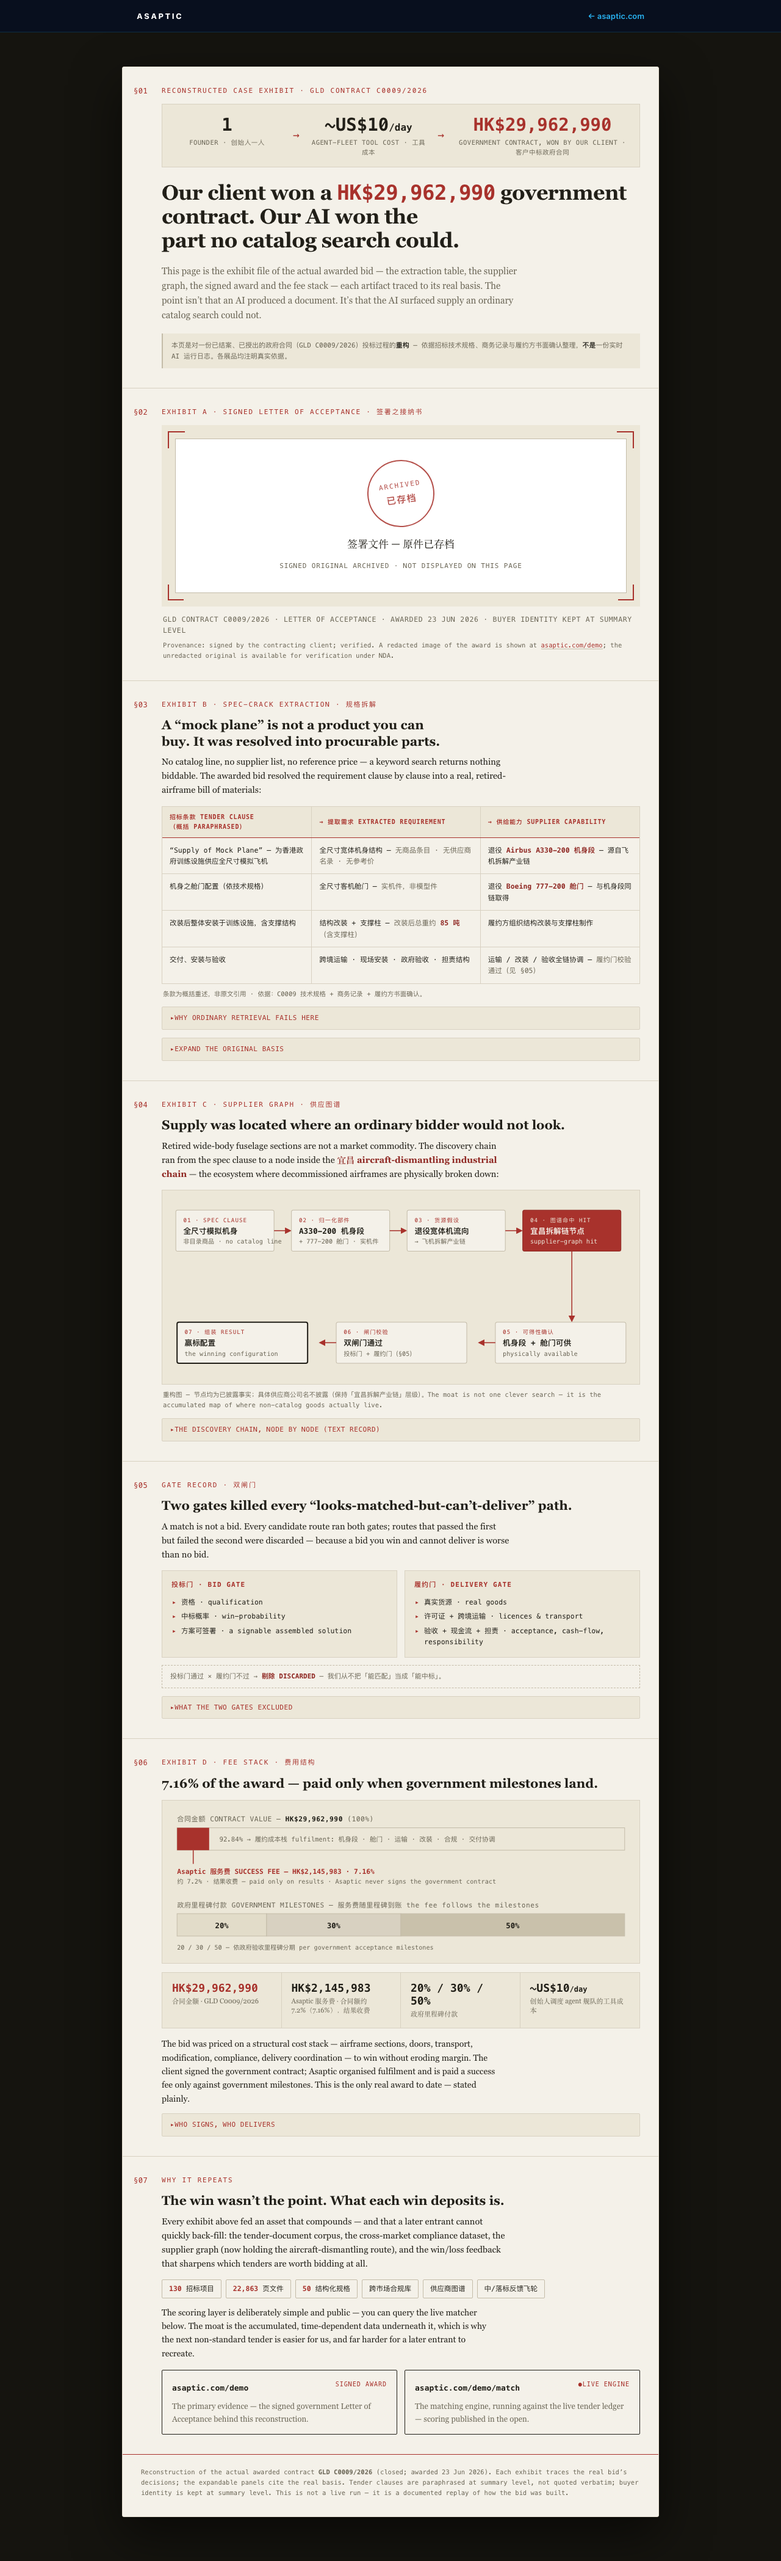
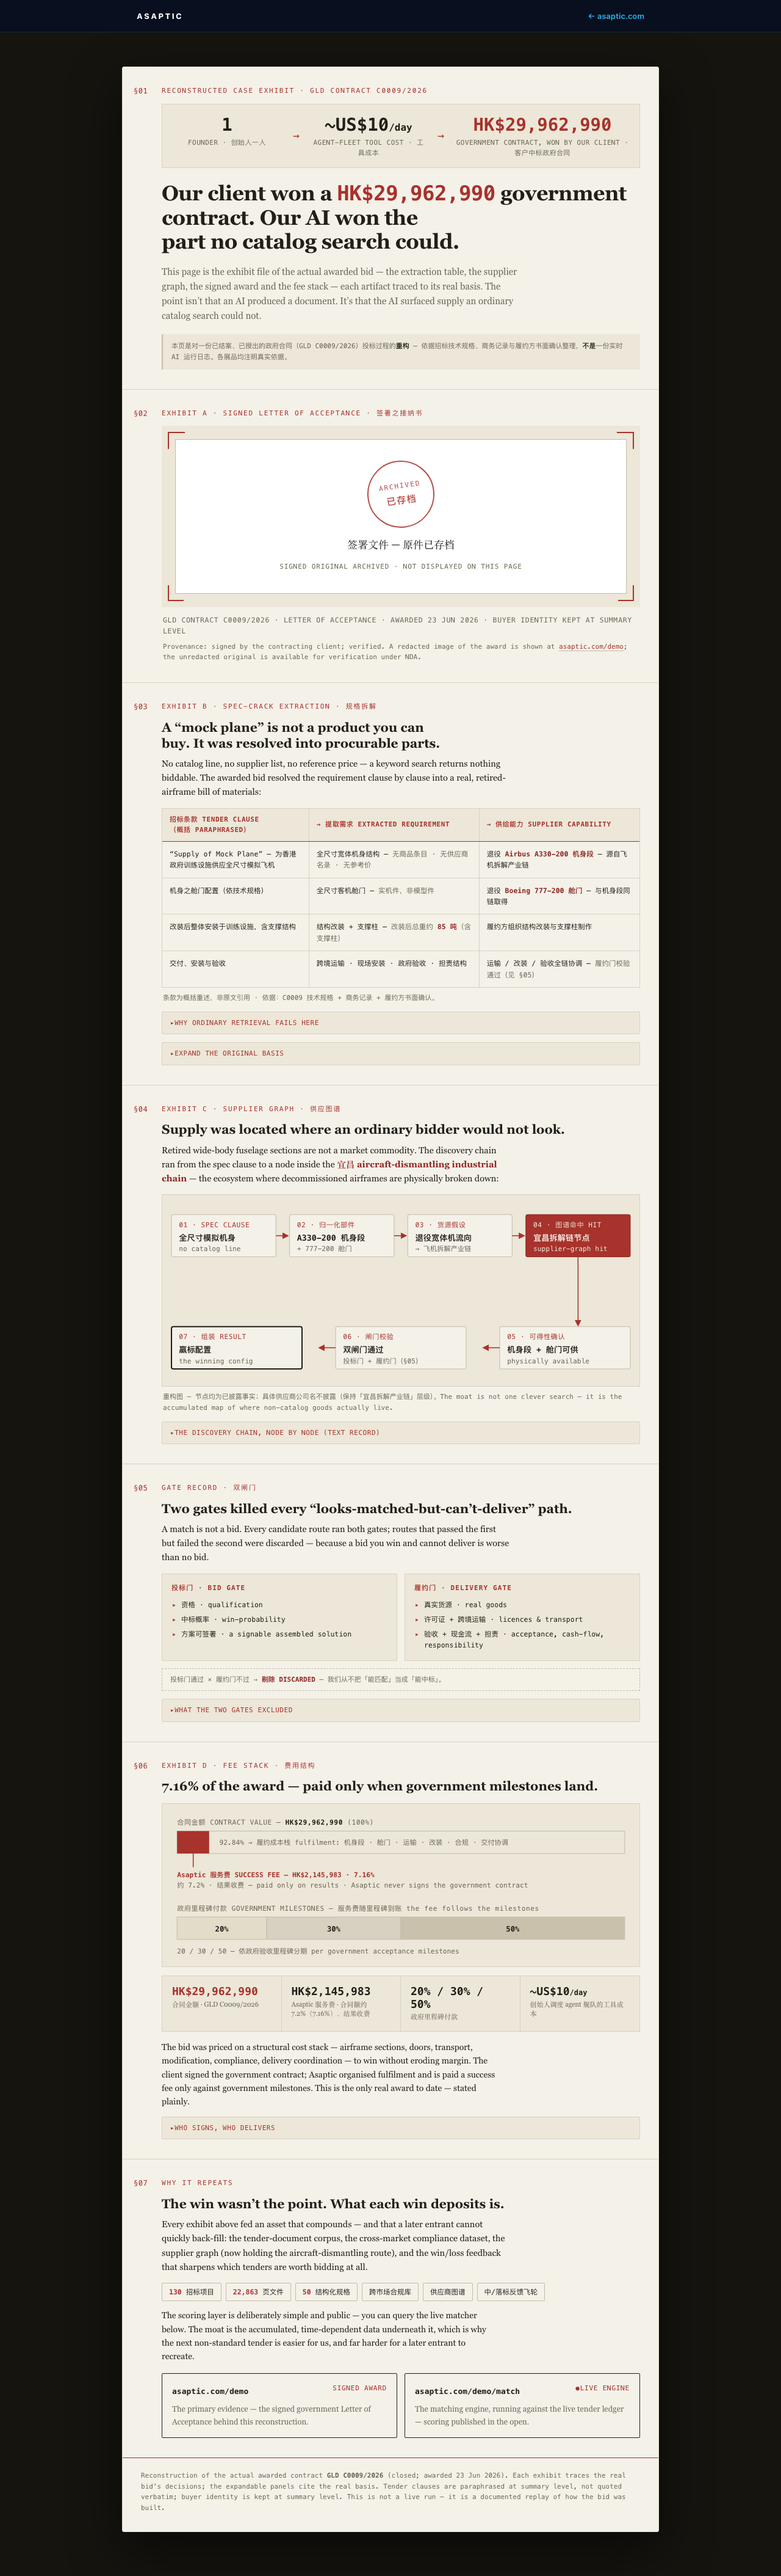
demos: UI-gate typography fix — min 11px computed font everywhere (CSS micro-labels + both SVGs), gate Overall: PASS

diff --git a/demos/index.html b/demos/index.html
@@ -53,7 +53,7 @@
   .tcell .tn{font-family:var(--mono);font-weight:700;font-size:clamp(20px,3.2vw,29px);line-height:1.1;color:var(--ink);font-variant-numeric:tabular-nums;white-space:nowrap}
   .tcell .tn.hl{color:var(--seal)}
   .tcell .tn small{font-size:.55em;font-weight:700}
-  .tcell .tk{font-family:var(--mono);font-size:10.5px;letter-spacing:.05em;text-transform:uppercase;color:var(--ink-2);margin-top:6px;line-height:1.5}
+  .tcell .tk{font-family:var(--mono);font-size:11px;letter-spacing:.04em;text-transform:uppercase;color:var(--ink-2);margin-top:6px;line-height:1.5}
   .tarrow{display:flex;align-items:center;font-family:var(--mono);font-size:18px;color:var(--seal);padding:0 2px}
   @media(max-width:640px){
     .tript{grid-template-columns:1fr}
@@ -77,13 +77,13 @@
   .slot .t1{font-family:var(--serif);font-size:17px;color:var(--ink);margin:0}
   .slot .t2{font-family:var(--mono);font-size:11px;letter-spacing:.08em;text-transform:uppercase;color:var(--ink-2);margin:0}
   .cap{font-family:var(--mono);font-size:11.5px;letter-spacing:.06em;color:var(--ink-2);margin:12px 2px 0;text-transform:uppercase}
-  .provline{font-family:var(--mono);font-size:10.5px;color:var(--ink-2);line-height:1.6;margin:7px 2px 0}
+  .provline{font-family:var(--mono);font-size:11px;color:var(--ink-2);line-height:1.6;margin:7px 2px 0}
   .provline a{color:var(--seal);text-decoration:none;border-bottom:1px solid var(--line-2)}
 
   /* extraction table */
   .xt{overflow-x:auto;margin:14px 0 0;border:1px solid var(--line);background:var(--paper)}
   .xt table{border-collapse:collapse;width:100%;min-width:620px}
-  .xt th{font-family:var(--mono);font-size:10px;letter-spacing:.08em;text-transform:uppercase;color:var(--seal);
+  .xt th{font-family:var(--mono);font-size:11px;letter-spacing:.05em;text-transform:uppercase;color:var(--seal);
     text-align:left;padding:9px 12px;background:var(--paper-2);border-bottom:1px solid var(--seal);font-weight:700;white-space:nowrap}
   .xt th .arr{color:var(--seal)}
   .xt td{font-family:var(--mono);font-size:11.5px;color:var(--ink);line-height:1.6;padding:11px 12px;border-bottom:1px solid var(--line);vertical-align:top}
@@ -91,13 +91,13 @@
   .xt tr:last-child td{border-bottom:0}
   .xt td b{color:var(--seal-deep)}
   .xt td .dim{color:var(--ink-2)}
-  .tfoot{font-family:var(--mono);font-size:10.5px;color:var(--ink-2);line-height:1.6;margin:8px 2px 0}
+  .tfoot{font-family:var(--mono);font-size:11px;color:var(--ink-2);line-height:1.6;margin:8px 2px 0}
 
   /* figures (SVG diagrams) */
   .fig{overflow-x:auto;margin:14px 0 0;border:1px solid var(--line);background:var(--paper-2);padding:16px 14px 10px}
   .fig svg{display:block;min-width:640px;width:100%;height:auto}
   .fig svg text{font-family:var(--mono)}
-  .figcap{font-family:var(--mono);font-size:10.5px;color:var(--ink-2);line-height:1.6;margin:8px 2px 0}
+  .figcap{font-family:var(--mono);font-size:11px;color:var(--ink-2);line-height:1.6;margin:8px 2px 0}
 
   /* gate cards */
   .gates{display:grid;grid-template-columns:1fr 1fr;gap:12px;margin:14px 0 0}
@@ -140,7 +140,7 @@
   .chip b{color:var(--seal)}
   .cards{display:grid;grid-template-columns:1fr 1fr;gap:12px;margin:16px 0 0}
   .card{display:block;text-decoration:none;color:inherit;border:1.5px solid var(--ink);border-radius:2px;padding:15px 16px 14px;position:relative;transition:border-color .15s,border-width .15s}
-  .card .tag{font-family:var(--mono);font-size:10px;letter-spacing:.1em;color:var(--seal);float:right;text-transform:uppercase}
+  .card .tag{font-family:var(--mono);font-size:11px;letter-spacing:.07em;color:var(--seal);float:right;text-transform:uppercase}
   .card .tag.live::before{content:"\25CF "}
   .card .addr{font-family:var(--mono);font-size:13px;font-weight:700}
   .card p{font-size:13px;color:var(--ink-2);margin:8px 0 0}
@@ -149,7 +149,7 @@
   @media(max-width:640px){.cards{grid-template-columns:1fr}}
 
   footer{padding:20px 30px 30px;border-top:1px solid var(--seal)}
-  .note{font-family:var(--mono);font-size:10.5px;color:var(--ink-2);line-height:1.6;margin:0}
+  .note{font-family:var(--mono);font-size:11px;color:var(--ink-2);line-height:1.6;margin:0}
 
   @media(max-width:640px){
     .body{padding-right:20px}
@@ -267,7 +267,7 @@
       <h2>Supply was located where an ordinary bidder would not look.</h2>
       <p class="copy">Retired wide-body fuselage sections are not a market commodity. The discovery chain ran from the spec clause to a node inside the <span class="em">宜昌 aircraft-dismantling industrial chain</span> &mdash; the ecosystem where decommissioned airframes are physically broken down:</p>
       <div class="fig" role="img" aria-label="Supplier discovery graph, seven nodes: spec clause, normalized parts, supply hypothesis, graph hit at the Yichang dismantling chain, availability confirmed, two gates passed, winning configuration assembled">
-        <svg viewBox="0 0 740 286" xmlns="http://www.w3.org/2000/svg" aria-hidden="true">
+        <svg viewBox="0 0 740 282" xmlns="http://www.w3.org/2000/svg" aria-hidden="true">
           <defs>
             <marker id="ah" viewBox="0 0 10 10" refX="8" refY="5" markerWidth="7" markerHeight="7" orient="auto-start-reverse">
               <path d="M0 0L10 5L0 10z" fill="#a8322c"/>
@@ -275,54 +275,54 @@
           </defs>
           <!-- row 1 -->
           <g>
-            <rect x="8" y="16" width="158" height="66" rx="3" fill="#f4f1e9" stroke="#c4bca9"/>
-            <text x="20" y="35" font-size="9" letter-spacing="1" fill="#a8322c">01 &middot; SPEC CLAUSE</text>
-            <text x="20" y="54" font-size="12.5" font-weight="700" fill="#211f18">全尺寸模拟机身</text>
-            <text x="20" y="70" font-size="10" fill="#6b6656">非目录商品 &middot; no catalog line</text>
+            <rect x="1" y="16" width="168" height="68" rx="3" fill="#f4f1e9" stroke="#c4bca9"/>
+            <text x="13" y="36" font-size="11" letter-spacing=".5" fill="#a8322c">01 &middot; SPEC CLAUSE</text>
+            <text x="13" y="58" font-size="13" font-weight="700" fill="#211f18">全尺寸模拟机身</text>
+            <text x="13" y="75" font-size="11" fill="#6b6656">no catalog line</text>
           </g>
-          <line x1="166" y1="49" x2="192" y2="49" stroke="#a8322c" stroke-width="1.5" marker-end="url(#ah)"/>
+          <line x1="169" y1="50" x2="188" y2="50" stroke="#a8322c" stroke-width="1.5" marker-end="url(#ah)"/>
           <g>
-            <rect x="194" y="16" width="158" height="66" rx="3" fill="#f4f1e9" stroke="#c4bca9"/>
-            <text x="206" y="35" font-size="9" letter-spacing="1" fill="#a8322c">02 &middot; 归一化部件</text>
-            <text x="206" y="54" font-size="12.5" font-weight="700" fill="#211f18">A330-200 机身段</text>
-            <text x="206" y="70" font-size="10" fill="#6b6656">+ 777-200 舱门 &middot; 实机件</text>
+            <rect x="191" y="16" width="168" height="68" rx="3" fill="#f4f1e9" stroke="#c4bca9"/>
+            <text x="203" y="36" font-size="11" letter-spacing=".5" fill="#a8322c">02 &middot; 归一化部件</text>
+            <text x="203" y="58" font-size="13" font-weight="700" fill="#211f18">A330-200 机身段</text>
+            <text x="203" y="75" font-size="11" fill="#6b6656">+ 777-200 舱门</text>
           </g>
-          <line x1="352" y1="49" x2="378" y2="49" stroke="#a8322c" stroke-width="1.5" marker-end="url(#ah)"/>
+          <line x1="359" y1="50" x2="378" y2="50" stroke="#a8322c" stroke-width="1.5" marker-end="url(#ah)"/>
           <g>
-            <rect x="380" y="16" width="158" height="66" rx="3" fill="#f4f1e9" stroke="#c4bca9"/>
-            <text x="392" y="35" font-size="9" letter-spacing="1" fill="#a8322c">03 &middot; 货源假设</text>
-            <text x="392" y="54" font-size="12.5" font-weight="700" fill="#211f18">退役宽体机流向</text>
-            <text x="392" y="70" font-size="10" fill="#6b6656">&rarr; 飞机拆解产业链</text>
+            <rect x="381" y="16" width="168" height="68" rx="3" fill="#f4f1e9" stroke="#c4bca9"/>
+            <text x="393" y="36" font-size="11" letter-spacing=".5" fill="#a8322c">03 &middot; 货源假设</text>
+            <text x="393" y="58" font-size="13" font-weight="700" fill="#211f18">退役宽体机流向</text>
+            <text x="393" y="75" font-size="11" fill="#6b6656">&rarr; 飞机拆解产业链</text>
           </g>
-          <line x1="538" y1="49" x2="564" y2="49" stroke="#a8322c" stroke-width="1.5" marker-end="url(#ah)"/>
+          <line x1="549" y1="50" x2="568" y2="50" stroke="#a8322c" stroke-width="1.5" marker-end="url(#ah)"/>
           <g>
-            <rect x="566" y="16" width="158" height="66" rx="3" fill="#a8322c" stroke="#8f2823"/>
-            <text x="578" y="35" font-size="9" letter-spacing="1" fill="#ece7d8">04 &middot; 图谱命中 HIT</text>
-            <text x="578" y="54" font-size="12.5" font-weight="700" fill="#f4f1e9">宜昌拆解链节点</text>
-            <text x="578" y="70" font-size="10" fill="#ece7d8">supplier-graph hit</text>
+            <rect x="571" y="16" width="168" height="68" rx="3" fill="#a8322c" stroke="#8f2823"/>
+            <text x="583" y="36" font-size="11" letter-spacing=".5" fill="#ece7d8">04 &middot; 图谱命中 HIT</text>
+            <text x="583" y="58" font-size="13" font-weight="700" fill="#f4f1e9">宜昌拆解链节点</text>
+            <text x="583" y="75" font-size="11" fill="#ece7d8">supplier-graph hit</text>
           </g>
           <!-- elbow down -->
-          <line x1="645" y1="82" x2="645" y2="194" stroke="#a8322c" stroke-width="1.5" marker-end="url(#ah)"/>
+          <line x1="655" y1="84" x2="655" y2="194" stroke="#a8322c" stroke-width="1.5" marker-end="url(#ah)"/>
           <!-- row 2 (right to left) -->
           <g>
-            <rect x="522" y="196" width="210" height="66" rx="3" fill="#f4f1e9" stroke="#c4bca9"/>
-            <text x="534" y="215" font-size="9" letter-spacing="1" fill="#a8322c">05 &middot; 可得性确认</text>
-            <text x="534" y="234" font-size="12.5" font-weight="700" fill="#211f18">机身段 + 舱门可供</text>
-            <text x="534" y="250" font-size="10" fill="#6b6656">physically available</text>
+            <rect x="529" y="196" width="210" height="68" rx="3" fill="#f4f1e9" stroke="#c4bca9"/>
+            <text x="541" y="216" font-size="11" letter-spacing=".5" fill="#a8322c">05 &middot; 可得性确认</text>
+            <text x="541" y="238" font-size="13" font-weight="700" fill="#211f18">机身段 + 舱门可供</text>
+            <text x="541" y="255" font-size="11" fill="#6b6656">physically available</text>
           </g>
-          <line x1="522" y1="229" x2="496" y2="229" stroke="#a8322c" stroke-width="1.5" marker-end="url(#ah)"/>
+          <line x1="529" y1="230" x2="503" y2="230" stroke="#a8322c" stroke-width="1.5" marker-end="url(#ah)"/>
           <g>
-            <rect x="266" y="196" width="210" height="66" rx="3" fill="#f4f1e9" stroke="#c4bca9"/>
-            <text x="278" y="215" font-size="9" letter-spacing="1" fill="#a8322c">06 &middot; 闸门校验</text>
-            <text x="278" y="234" font-size="12.5" font-weight="700" fill="#211f18">双闸门通过</text>
-            <text x="278" y="250" font-size="10" fill="#6b6656">投标门 + 履约门（&sect;05）</text>
+            <rect x="265" y="196" width="210" height="68" rx="3" fill="#f4f1e9" stroke="#c4bca9"/>
+            <text x="277" y="216" font-size="11" letter-spacing=".5" fill="#a8322c">06 &middot; 闸门校验</text>
+            <text x="277" y="238" font-size="13" font-weight="700" fill="#211f18">双闸门通过</text>
+            <text x="277" y="255" font-size="11" fill="#6b6656">投标门 + 履约门（&sect;05）</text>
           </g>
-          <line x1="266" y1="229" x2="240" y2="229" stroke="#a8322c" stroke-width="1.5" marker-end="url(#ah)"/>
+          <line x1="265" y1="230" x2="239" y2="230" stroke="#a8322c" stroke-width="1.5" marker-end="url(#ah)"/>
           <g>
-            <rect x="10" y="196" width="210" height="66" rx="3" fill="#f4f1e9" stroke="#211f18" stroke-width="2"/>
-            <text x="22" y="215" font-size="9" letter-spacing="1" fill="#a8322c">07 &middot; 组装 RESULT</text>
-            <text x="22" y="234" font-size="12.5" font-weight="700" fill="#211f18">赢标配置</text>
-            <text x="22" y="250" font-size="10" fill="#6b6656">the winning configuration</text>
+            <rect x="1" y="196" width="210" height="68" rx="3" fill="#f4f1e9" stroke="#211f18" stroke-width="2"/>
+            <text x="13" y="216" font-size="11" letter-spacing=".5" fill="#a8322c">07 &middot; 组装 RESULT</text>
+            <text x="13" y="238" font-size="13" font-weight="700" fill="#211f18">赢标配置</text>
+            <text x="13" y="255" font-size="11" fill="#6b6656">the winning config</text>
           </g>
         </svg>
       </div>
@@ -391,10 +391,10 @@
           <text x="10" y="18" font-size="11" fill="#6b6656" letter-spacing=".5">合同金额 CONTRACT VALUE &mdash; <tspan font-weight="700" fill="#211f18">HK$29,962,990</tspan> (100%)</text>
           <rect x="10" y="28" width="720" height="36" fill="#ece7d8" stroke="#c4bca9"/>
           <rect x="10" y="28" width="51.6" height="36" fill="#a8322c"/>
-          <text x="78" y="50" font-size="10.5" fill="#6b6656">92.84% &rarr; 履约成本栈 fulfilment: 机身段 &middot; 舱门 &middot; 运输 &middot; 改装 &middot; 合规 &middot; 交付协调</text>
+          <text x="78" y="50" font-size="11" fill="#6b6656">92.84% &rarr; 履约成本栈 fulfilment: 机身段 &middot; 舱门 &middot; 运输 &middot; 改装 &middot; 合规 &middot; 交付协调</text>
           <line x1="36" y1="64" x2="36" y2="86" stroke="#a8322c" stroke-width="1.5"/>
           <text x="10" y="102" font-size="11" font-weight="700" fill="#a8322c">Asaptic 服务费 SUCCESS FEE &mdash; HK$2,145,983 &middot; 7.16%</text>
-          <text x="10" y="118" font-size="10" fill="#6b6656">约 7.2% &middot; 结果收费 &mdash; paid only on results &middot; Asaptic never signs the government contract</text>
+          <text x="10" y="119" font-size="11" fill="#6b6656">约 7.2% &middot; 结果收费 &mdash; paid only on results &middot; Asaptic never signs the government contract</text>
           <!-- bar 2: milestones -->
           <text x="10" y="156" font-size="11" fill="#6b6656" letter-spacing=".5">政府里程碑付款 GOVERNMENT MILESTONES &mdash; 服务费随里程碑到账 the fee follows the milestones</text>
           <rect x="10" y="166" width="144" height="36" fill="#e2dcc9" stroke="#c4bca9"/>
@@ -403,7 +403,7 @@
           <text x="82" y="189" font-size="12" font-weight="700" fill="#211f18" text-anchor="middle">20%</text>
           <text x="262" y="189" font-size="12" font-weight="700" fill="#211f18" text-anchor="middle">30%</text>
           <text x="550" y="189" font-size="12" font-weight="700" fill="#211f18" text-anchor="middle">50%</text>
-          <text x="10" y="224" font-size="10" fill="#6b6656">20 / 30 / 50 &mdash; 依政府验收里程碑分期 per government acceptance milestones</text>
+          <text x="10" y="225" font-size="11" fill="#6b6656">20 / 30 / 50 &mdash; 依政府验收里程碑分期 per government acceptance milestones</text>
         </svg>
       </div>
       <div class="stats">
